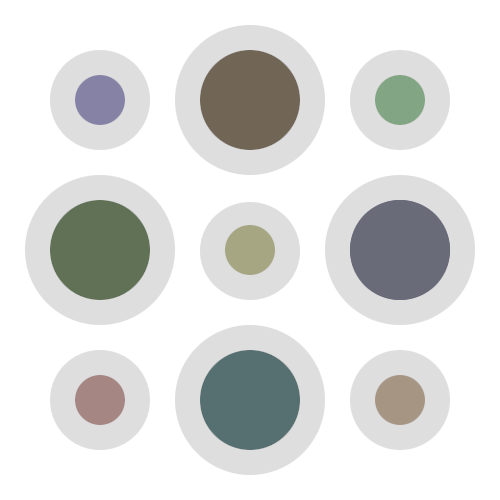
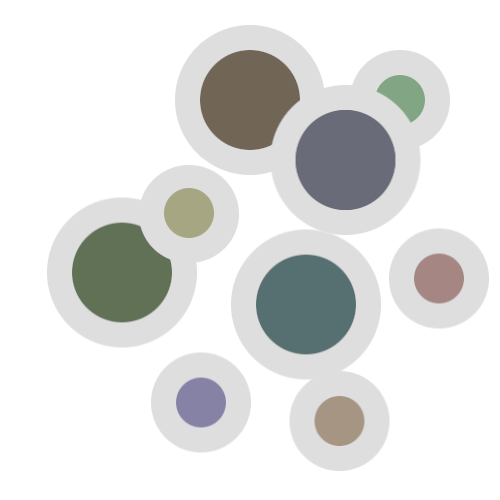
molecule and text fixes

diff --git a/src/app/features/story-player/scenes/scene-air/scene-air.html b/src/app/features/story-player/scenes/scene-air/scene-air.html
@@ -1,9 +1,9 @@
 <div class="container">
   <app-layer-wrapper>
     <app-sky-grass bg-layer style="z-index: -10;"></app-sky-grass>
-    <div class="sun-container">
+    <!-- <div class="sun-container">
       <div class="sun"></div>
-    </div>
+    </div> -->
     <app-clouds></app-clouds>
 
     <!-- Molecules show up when selected -->

diff --git a/src/app/shared/ui/multiple-choice/multiple-choice.scss b/src/app/shared/ui/multiple-choice/multiple-choice.scss
@@ -2,7 +2,7 @@
   position: absolute;
   top: 50%;
   right: 0;
-  width: 45%;
+  width: 25%;
   height: auto;
   max-height: 80%;
   transform: translateY(-50%);
@@ -107,7 +107,7 @@
     bottom: 0;
     left: 50%;
     right: 0;
-    width: 40%;
+    width: 45%;
     max-height: 50vh;
     transform: none;
     margin-right: 0;

diff --git a/src/app/features/story-player/scenes/scene-air/scene-air.scss b/src/app/features/story-player/scenes/scene-air/scene-air.scss
@@ -21,12 +21,12 @@
 
 .molecule-display {
   position: absolute;
-  left: 6rem;
-  top: 50%;
+  left: 5%;
+  top: 35%;
   transform: translateY(-50%);
   display: flex;
-  flex-direction: column;
-  gap: 1rem;
+  flex-direction: row;
+  gap: 7vw;
   z-index: 15;
 }
 
